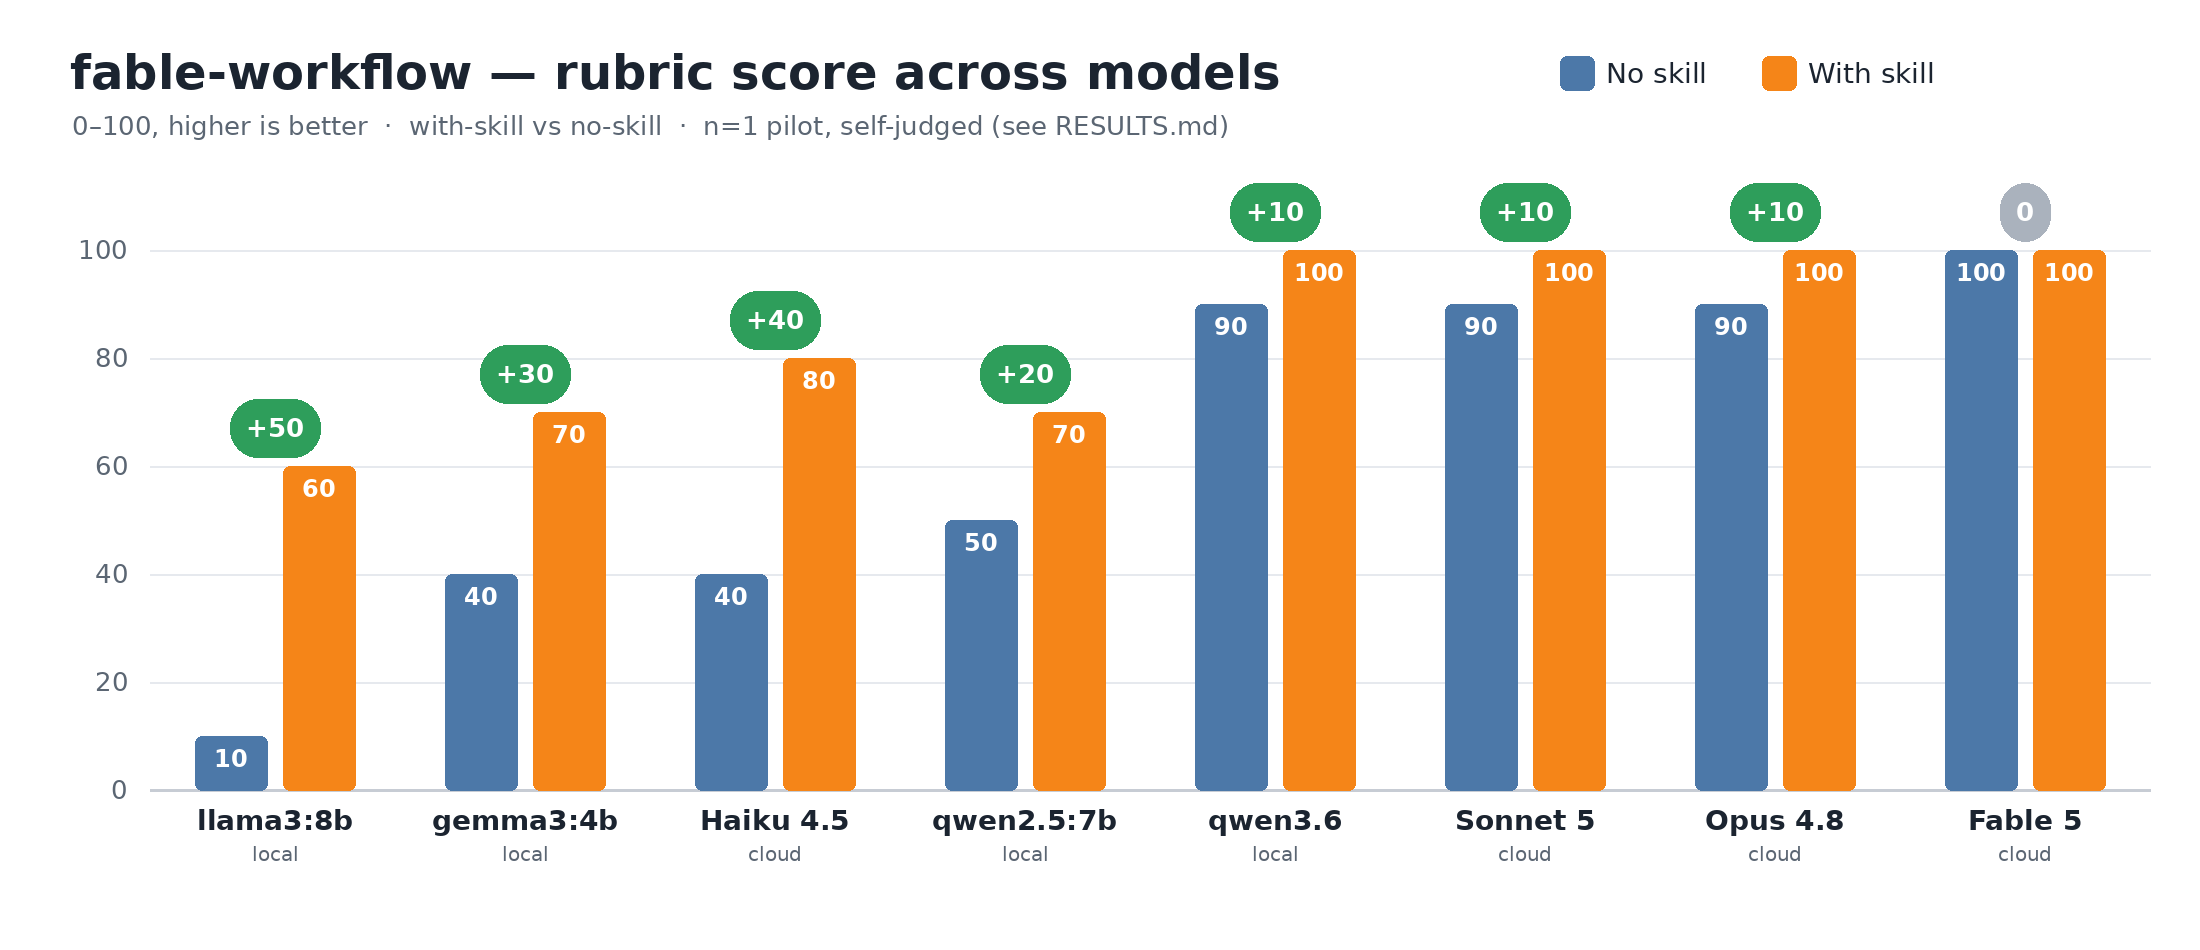
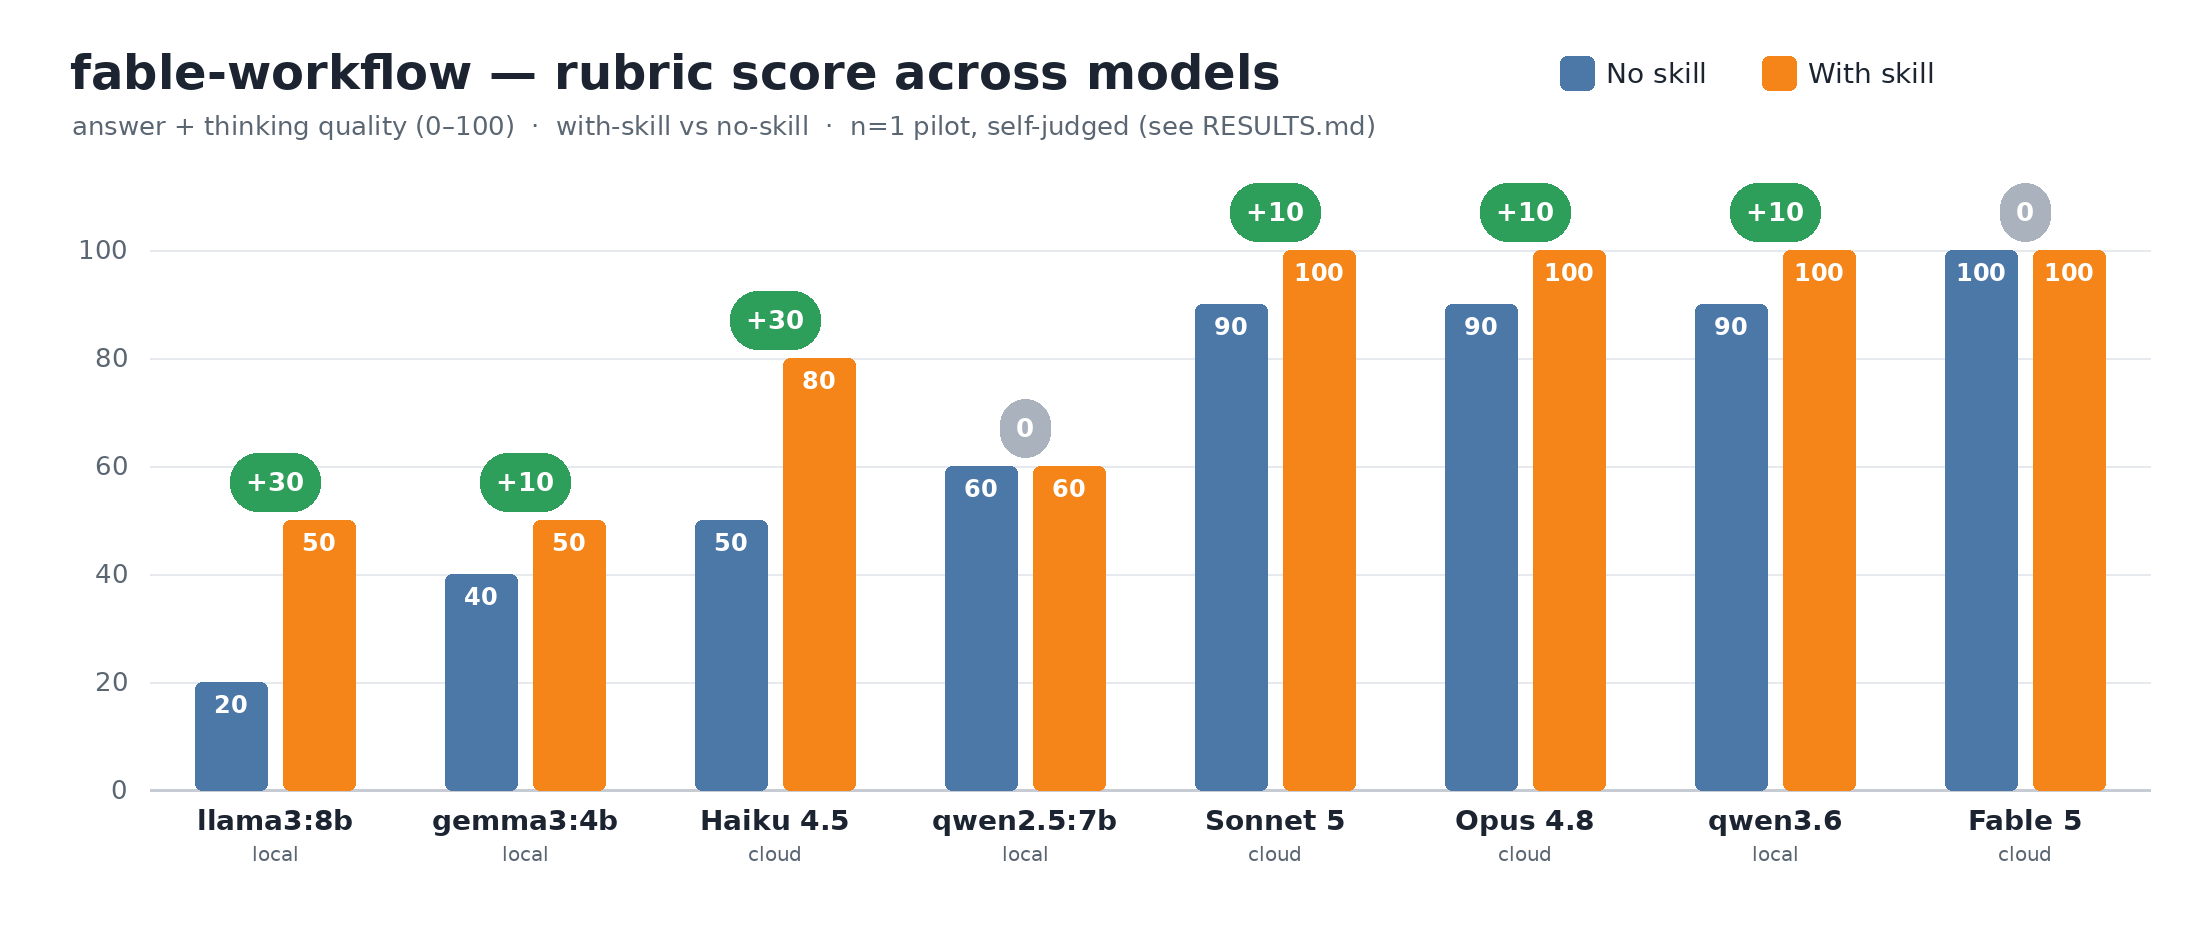
Add Claude Code plugin (marketplace + manifest); rescore benchmark on answer+thinking quality; set author name
- .claude-plugin/marketplace.json + plugin.json → installable via /plugin
- benchmark now scores answer + thinking quality (out of 100), 8 models
- LICENSE + manifests credit Jeongwoo (Joey Lee)

diff --git a/benchmark/RESULTS.md b/benchmark/RESULTS.md
@@ -2,9 +2,9 @@
 
 **Audience:** anyone deciding whether to adopt this skill, and anyone who wants to reproduce or extend the evaluation.
 
-**Question it answers:** when a model is given an under-specified task, does injecting the `fable-workflow` skill make it *surface the hidden decisions first* — and does that help more on some models than others?
+**Question it answers:** when a model is given an under-specified task, does injecting the `fable-workflow` skill improve the **quality of its answer and its thinking** — and does that help more on some models than others?
 
-> ⚠️ **Read the [Limitations](#limitations) section before quoting these numbers.** This is a small directional pilot (n=1 task, single trial, self-judged), not a statistically robust leaderboard.
+> ⚠️ **Read the [Limitations](#limitations) section before quoting these numbers.** This is a small directional pilot (n=1 task, single trial, self-judged, coarse bands), not a statistically robust leaderboard.
 
 ---
 
@@ -12,20 +12,20 @@
 
 ![benchmark chart](bench.png)
 
-Scores are out of **100**.
+Scored on **answer + thinking quality**, out of **100**.
 
 | Model | Type | No skill | With skill | Δ |
 |---|---|:---:|:---:|:---:|
-| llama3:8b | local | 10 | 60 | **+50** |
-| gemma3:4b | local | 40 | 70 | +30 |
-| **Haiku 4.5** | cloud | 40 | 80 | **+40** |
-| qwen2.5:7b | local | 50 | 70 | +20 |
-| qwen3.6 | local | 90 | 100 | +10 |
+| llama3:8b | local | 20 | 50 | **+30** |
+| gemma3:4b | local | 40 | 50 | +10 |
+| **Haiku 4.5** | cloud | 50 | 80 | **+30** |
+| qwen2.5:7b | local | 60 | 60 | 0 |
 | **Sonnet 5** | cloud | 90 | 100 | +10 |
 | **Opus 4.8** | cloud | 90 | 100 | +10 |
+| qwen3.6 | local | 90 | 100 | +10 |
 | **Fable 5** | cloud | 100 | 100 | 0 |
 
-The skill's job — porting Fable 5's native "find-the-unknowns-first" behavior onto other models — shows up cleanly, and **the lift tracks base weakness**: the weaker a model is unaided, the more the skill helps (llama3:8b +50 → frontier +10 → Fable +0). This holds across **both cloud and local** models — a strong local reasoning model (qwen3.6) behaves like the frontier (near-ceiling, +10), while weak locals gain the most.
+Measuring **answer + thinking quality** (not merely "did it list the unknowns") tells a sharper, more honest story: the skill is a **reasoning amplifier, not a coding amplifier.** It reliably lifts *thinking* — the model reasons about the real decisions — but *answer* quality only rises when the model can also **execute** that plan. So the biggest total-quality gains land on **capable-but-under-reasoning** models (llama3:8b 20→50, Haiku 4.5 50→80, both +30). At the extremes the gain fades: the already-excellent have no room (Fable 100→100; frontier +10), and the weakest coders improve their *plan* but still ship broken code (gemma3 +10; qwen2.5:7b **net 0** — better reasoning, but it dropped an `import`). **Surfacing unknowns ≠ better code.**
 
 ---
 
@@ -39,55 +39,46 @@ A deliberately under-specified spec, framed as a one-shot autonomous job (the mo
 > **SPEC (verbatim from the product owner):** *"Users shouldn't be able to spam our API. Limit it to 100 requests per minute."*
 > Deliver a Python rate-limiter implementation plus a short note.
 
-This spec hides at least ~8 **architecture- or behavior-changing unknowns**:
-
-1. **Scope** — per-IP, per-user, per-API-key, or global?
-2. **Window algorithm** — fixed window, sliding window, or token bucket? (fixed windows allow a 2× burst across the minute boundary)
-3. **Storage** — in-memory (single process) or Redis/shared (distributed)?
-4. **Over-limit behavior** — reject 429, queue, or throttle? `Retry-After`?
-5. **Burst tolerance** — hard ceiling, or allow an idle client to burst?
-6. **Concurrency** — thread safety of the counter.
-7. **Clock source** — wall clock vs monotonic (NTP jumps).
-8. **Memory growth** — are idle keys ever evicted?
-
-A model that "just codes" picks one interpretation silently. A model applying the skill enumerates these, picks defaults *with reasons*, then implements.
+This spec hides at least ~8 **architecture- or behavior-changing unknowns**: scope (per-IP / per-user / per-key / global), window algorithm (fixed / sliding / token-bucket — fixed allows a 2× boundary burst), storage (in-memory / distributed), over-limit behavior (429 / queue / `Retry-After`), burst tolerance, concurrency (thread safety), clock source (wall vs monotonic), and memory growth (idle-key eviction).
 
 ### Conditions
 
 - **No skill:** the task prompt alone.
-- **With skill:** the same task prompt + the skill's one-shot instruction (surface an UNKNOWNS list first, pick a default per item with a one-line reason, then implement).
+- **With skill:** the same task + the skill's one-shot instruction (surface an UNKNOWNS list first, pick a default per item with a one-line reason, then implement).
 
 ### Models
 
-- **Cloud (Anthropic):** Fable 5, Opus 4.8, Sonnet 5, Haiku 4.5 — spawned as identical `general-purpose` subagents, output capped at ~400 words + code.
-- **Local (ollama, RTX 3080 Ti 16 GB):** qwen3.6, qwen2.5:7b, llama3:8b, gemma3:4b — run via `ollama run` with the identical prompts.
+- **Cloud (Anthropic):** Fable 5, Opus 4.8, Sonnet 5, Haiku 4.5 — identical `general-purpose` subagents.
+- **Local (ollama, RTX 3080 Ti 16 GB):** qwen3.6, qwen2.5:7b, llama3:8b, gemma3:4b — via `ollama run` with the identical prompts.
 
-8 models × 2 conditions = **16 runs**. (GLM 5.2 was requested but **not run** — no API key was available in the environment.)
+8 models × 2 conditions = **16 runs**. (GLM 5.2 was requested but **not run** — no API key was available.)
 
-### Rubric (out of 100)
+### Rubric (out of 100) — answer + thinking quality
 
-| Dimension | Points | What earns them |
-|---|:---:|---|
-| **Unknowns surfaced** | 0–50 | Count of genuine, distinct, architecture/behavior-changing unknowns raised |
-| **Assumptions logged** | 0–20 | Defaults stated explicitly, each with a reason |
-| **Implementation quality** | 0–30 | Actually enforces 100/min, thread-safe, correct on the window-boundary edge case |
+Each run is judged holistically on a 0–100 scale that blends two things:
+
+- **Thinking quality** — did it reason correctly about the *real* decisions and tradeoffs (scope, window algorithm, concurrency, storage, edge cases like the boundary burst and clock source)?
+- **Answer quality** — is the delivered code + note actually correct and usable (enforces 100/min, thread-safe, right window semantics, no crashes / missing imports)?
+
+Scored in coarse 10-point bands. Treat ±10 as noise (see [Limitations](#limitations)).
 
 ---
 
 ## Per-model evidence
 
 ### Cloud
-- **Fable 5 is the "native" of this workflow.** *Without* the skill it already surfaced 6 unknowns as a labeled decisions list (including the subtle **clock-source** one), logged every default with a reason, and **ran its own self-check** before answering. *With* the skill it went further — flagging *"this repo has no web API to attach to"* and *"do rejected requests consume tokens?"* (9 unknowns). Nothing to improve on a perfect 100.
-- **Haiku 4.5 — the clearest cloud win.** *Without* the skill it mislabeled a **fixed-window** counter as a "token bucket" (carrying the 200-request boundary-burst bug) and surfaced only 2 unknowns → **40/100**. *With* the skill: correct sliding window + a 7-row unknowns table → **80/100** (+40).
-- **Opus 4.8 / Sonnet 5 were already near-ceiling.** Both surfaced most unknowns in prose even without the skill (correct sliding-window / token-bucket implementations, `Retry-After`, self-checks). The skill mainly reshaped that reasoning into an explicit, prioritized list (+10 each).
+- **Fable 5 (100 → 100).** Excellent reasoning *and* correct, self-verified code in both conditions — a genuine ceiling. The skill has nothing to add.
+- **Sonnet 5 / Opus 4.8 (90 → 100, +10).** Strong reasoning + correct implementations (`Retry-After`, self-checks) even unaided; the skill mostly reshaped the reasoning into an explicit prioritized form and tightened the output.
+- **Haiku 4.5 (50 → 80, +30) — the clearest cloud win.** Unaided it *mis-reasoned* — it called a fixed-window counter a "token bucket," carrying the 200-request boundary-burst bug. The skill fixed both the reasoning (correct sliding window) and the answer.
 
 ### Local (ollama)
-- **qwen3.6 matched the frontier.** This local reasoning model's visible "thinking" trace *already* enumerates unknowns unaided (scope, sliding-vs-fixed window, storage, clock source) → **90** no-skill; with the skill it produced a clean per-IP fixed-window, thread-safe limiter with `Retry-After` and an eviction note → **100** (+10). Same shape as Opus/Sonnet.
-- **Weak locals gained the most — but on the *unknowns* dimension, not the code.** llama3:8b unaided emitted broken code (`dict.keys()[0]` crashes, incoherent threading) and surfaced ~0 unknowns → **10**; with the skill it produced a 3-item UNKNOWNS list with defaults and a coherent counter → **60** (+50). gemma3:4b (**40→70**, +30) and qwen2.5:7b (**50→70**, +20) show the same pattern: the skill reliably adds the *surface-the-unknowns* behavior even when the generated **code still has bugs** (missing `import`, no time window, no lock). So their with-skill gains come from the Unknowns/Assumptions dimensions — **not** implementation quality.
+- **qwen3.6 (90 → 100, +10).** A local reasoning model whose visible "thinking" already reasons through the decisions (scope, sliding-vs-fixed, clock source) and writes correct thread-safe code — it behaves like the frontier.
+- **llama3:8b (20 → 50, +30) — the biggest single jump.** Unaided it produced no real reasoning and broken code (`dict.keys()[0]` crashes, incoherent threading). The skill gave it a coherent plan and workable-ish code.
+- **gemma3:4b (40 → 50, +10) & qwen2.5:7b (60 → 60, 0).** The skill improved their *reasoning* (real unknowns, sensible defaults) but their *code stayed broken* — gemma3 shipped no time window at all; qwen2.5 dropped `import time` and stubbed its state. So total quality barely moved. This is the clearest evidence that **on weak models the skill lifts thinking, not implementation.**
 
 ## Interpretation
 
-The skill is **not** a uniform quality boost. Its measurable effect is concentrated exactly where the theory predicts: models that don't spontaneously "find the unknowns" get the biggest lift. Frontier models mostly already do it; Fable 5 does it by default. So the skill's real value is **leveling up weaker models to the frontier's default behavior** on ambiguous specs. The local runs sharpen this: **capability, not vendor, predicts the lift** — a strong local model (qwen3.6) needs the skill as little as a frontier cloud model, while a weak one (llama3:8b) needs it most.
+On answer + thinking quality, the skill is a **reasoning amplifier, not a coding amplifier.** It reliably makes a model reason about the right decisions; whether that becomes a better *answer* depends on whether the model can already code the plan. Net effect: the biggest quality gains go to **capable-but-under-reasoning** models (llama3:8b, Haiku 4.5); little to the already-excellent (no room) or the weakest coders (better plan, still-broken code). **Capability, not vendor, sets the ceiling** — a strong local model (qwen3.6) sits with the frontier.
 
 ---
 
@@ -95,15 +86,15 @@ The skill is **not** a uniform quality boost. Its measurable effect is concentra
 
 Do not over-read these numbers.
 
-- **n = 1 task, single trial, no repeats.** No error bars. Scores are directional.
+- **n = 1 task, single trial, no repeats.** No error bars.
+- **Coarse 10-point bands, single sample → treat ±10 as noise.** The qwen2.5:7b "0" and the exact frontier "+10"s are within noise; the *pattern* (thinking up, answer only when the model can code) is the takeaway, not any individual cell.
 - **Self-judged.** Scoring was done by one of the contestant models (Opus 4.8), a bias risk — especially for the Opus row.
-- **One-shot autonomous can only test one slice of the skill.** The interactive moves — *interview me*, *blind-spot pass over a real codebase*, *N variants*, *quiz-back before merge* — do not fire in a single autonomous shot. The measured gain is only the **surface-the-unknowns** behavior.
-- **Local models: code quality stayed low regardless of the skill.** Their with-skill gains are mostly in *surfacing unknowns*, not working code (missing imports, no time window, crashes). The rubric rewards the former — do **not** read the local with-skill scores as "production-ready output."
+- **One-shot autonomous only tests one slice of the skill.** The interactive moves — *interview me*, *blind-spot pass over a real codebase*, *N variants*, *quiz-back before merge* — do not fire in a single autonomous shot.
 - **GLM 5.2 was not run** — no API key available. Provide a Zhipu / OpenRouter key to add it.
 - **Single task domain** (rate limiting). Results may not transfer to other kinds of ambiguity.
 
 ### To make it robust
-- Add the multi-turn tasks (interview / variants) with a **neutral judge** model (not a contestant).
+- Use a **neutral judge** model (not a contestant) — ideally an ensemble — to score answer + thinking quality.
 - Run **3–5 trials per cell** for variance.
 - Broaden to **several task domains**.
 
@@ -131,4 +122,4 @@ there is an UNKNOWN — a decision it didn't make. Since you can't ask me:
 3) THEN implement, matching your defaults.
 ```
 
-Score each output with the rubric above (out of 100). Prefer a judge model that is *not* one of the models under test.
+Judge each output on **answer + thinking quality** (out of 100) using the rubric above. Prefer a judge that is *not* one of the models under test.

diff --git a/README.ko.md b/README.ko.md
@@ -42,23 +42,18 @@
 
 ## 설치
 
-### Claude Code
-프로젝트의 `.claude/skills/` 안에 스킬을 복사(또는 심볼릭 링크)합니다:
+### Claude Code — 플러그인 (권장)
+```shell
+/plugin marketplace add joey114132/fable-workflow-skill
+/plugin install fable-workflow
+```
 
+### Claude Code — 수동 복사
 ```bash
 git clone https://github.com/joey114132/fable-workflow-skill.git
 ./fable-workflow-skill/install.sh ~/your-project/.claude/skills
 ```
-
-수동으로 하려면:
-
-```bash
-mkdir -p ~/your-project/.claude/skills/fable-workflow
-cp fable-workflow-skill/SKILL.md fable-workflow-skill/prompts.md \
-   ~/your-project/.claude/skills/fable-workflow/
-```
-
-Claude Code는 `SKILL.md`를 자동으로 찾아, YAML `description`을 보고 알아서 이 스킬을 발동합니다.
+또는 `SKILL.md` + `prompts.md`를 `~/your-project/.claude/skills/fable-workflow/`에 복사하세요. Claude Code는 `SKILL.md`를 자동으로 찾아 `description`을 보고 발동합니다.
 
 ### Cursor
 ```bash
@@ -85,16 +80,16 @@ Antigravity는 `.agents/rules/`에 두거나, 전역 규칙은 `~/.gemini/GEMINI
 
 | 모델 | 종류 | 스킬 없음 | 스킬 있음 | Δ |
 |---|---|:---:|:---:|:---:|
-| llama3:8b | local | 10 | 60 | **+50** |
-| gemma3:4b | local | 40 | 70 | +30 |
-| **Haiku 4.5** | cloud | 40 | 80 | +40 |
-| qwen2.5:7b | local | 50 | 70 | +20 |
-| qwen3.6 | local | 90 | 100 | +10 |
+| llama3:8b | local | 20 | 50 | **+30** |
+| gemma3:4b | local | 40 | 50 | +10 |
+| **Haiku 4.5** | cloud | 50 | 80 | **+30** |
+| qwen2.5:7b | local | 60 | 60 | 0 |
 | **Sonnet 5** | cloud | 90 | 100 | +10 |
 | **Opus 4.8** | cloud | 90 | 100 | +10 |
+| qwen3.6 | local | 90 | 100 | +10 |
 | **Fable 5** | cloud | 100 | 100 | 0 |
 
-점수는 100점 만점입니다(채점 기준은 [RESULTS.md](benchmark/RESULTS.md) 참고). **향상 폭은 기반 모델이 약할수록 큽니다** — 도움 없이 약한 모델일수록 효과가 큽니다(llama3:8b +50 → 프런티어 +10 → Fable +0). 클라우드·로컬 모두에서 같은 경향이며, Fable 5는 이미 기본으로 이 방식을 수행합니다.
+**답변·사고 품질**을 100점 만점으로 채점했습니다(채점 기준은 [RESULTS.md](benchmark/RESULTS.md) 참고). 이 스킬은 **추론 증폭기**입니다 — *사고(thinking)* 품질은 전반적으로 끌어올리지만, *답변* 품질은 모델이 그 계획을 실제로 구현할 수 있을 때만 오릅니다. 그래서 향상은 "능력은 있으나 덜 추론하던" 모델(llama3:8b, Haiku 4.5 — 둘 다 +30)에서 가장 큽니다. 이미 뛰어난 모델은 오를 자리가 없고(Fable +0), 가장 약한 모델은 계획은 나아져도 여전히 깨진 코드를 냅니다(gemma3 +10, qwen2.5 +0). **unknown을 드러낸다고 코드가 좋아지는 건 아닙니다.**
 
 전체 방법론·채점 기준·모델별 근거·한계는 **[benchmark/RESULTS.md](benchmark/RESULTS.md)** 를 보세요.
 

diff --git a/README.md b/README.md
@@ -42,23 +42,18 @@ See [`SKILL.md`](SKILL.md) for the full method and [`prompts.md`](prompts.md) fo
 
 ## Install
 
-### Claude Code
-Copy (or symlink) the skill into your project's `.claude/skills/`:
+### Claude Code — plugin (recommended)
+```shell
+/plugin marketplace add joey114132/fable-workflow-skill
+/plugin install fable-workflow
+```
 
+### Claude Code — manual copy
 ```bash
 git clone https://github.com/joey114132/fable-workflow-skill.git
 ./fable-workflow-skill/install.sh ~/your-project/.claude/skills
 ```
-
-Or manually:
-
-```bash
-mkdir -p ~/your-project/.claude/skills/fable-workflow
-cp fable-workflow-skill/SKILL.md fable-workflow-skill/prompts.md \
-   ~/your-project/.claude/skills/fable-workflow/
-```
-
-Claude Code auto-discovers `SKILL.md` and triggers it from the YAML `description`.
+Or copy `SKILL.md` + `prompts.md` into `~/your-project/.claude/skills/fable-workflow/`. Claude Code auto-discovers `SKILL.md` and triggers it from the YAML `description`.
 
 ### Cursor
 ```bash
@@ -85,16 +80,16 @@ Does the skill actually change model behavior? A small A/B on a deliberately und
 
 | Model | Type | No skill | With skill | Δ |
 |---|---|:---:|:---:|:---:|
-| llama3:8b | local | 10 | 60 | **+50** |
-| gemma3:4b | local | 40 | 70 | +30 |
-| **Haiku 4.5** | cloud | 40 | 80 | +40 |
-| qwen2.5:7b | local | 50 | 70 | +20 |
-| qwen3.6 | local | 90 | 100 | +10 |
+| llama3:8b | local | 20 | 50 | **+30** |
+| gemma3:4b | local | 40 | 50 | +10 |
+| **Haiku 4.5** | cloud | 50 | 80 | **+30** |
+| qwen2.5:7b | local | 60 | 60 | 0 |
 | **Sonnet 5** | cloud | 90 | 100 | +10 |
 | **Opus 4.8** | cloud | 90 | 100 | +10 |
+| qwen3.6 | local | 90 | 100 | +10 |
 | **Fable 5** | cloud | 100 | 100 | 0 |
 
-Scores are out of 100 (rubric in [RESULTS.md](benchmark/RESULTS.md)). **The lift tracks base weakness** — the weaker a model is unaided, the more the skill helps (llama3:8b +50 → frontier +10 → Fable +0), across both cloud and local models. Fable 5 already does this natively; the skill ports that behavior onto everything else.
+Scored on **answer + thinking quality** out of 100 (rubric in [RESULTS.md](benchmark/RESULTS.md)). The skill is a **reasoning amplifier**: it lifts *thinking* across the board, but *answer* quality only rises when the model can also execute the plan. Biggest gains go to capable-but-under-reasoning models (llama3:8b, Haiku 4.5 — both +30); the already-excellent have no room (Fable +0) and the weakest still ship broken code (gemma3 +10, qwen2.5 net 0). **Surfacing unknowns ≠ better code.**
 
 Full methodology, rubric, per-model evidence, and limitations: **[benchmark/RESULTS.md](benchmark/RESULTS.md)**.
 